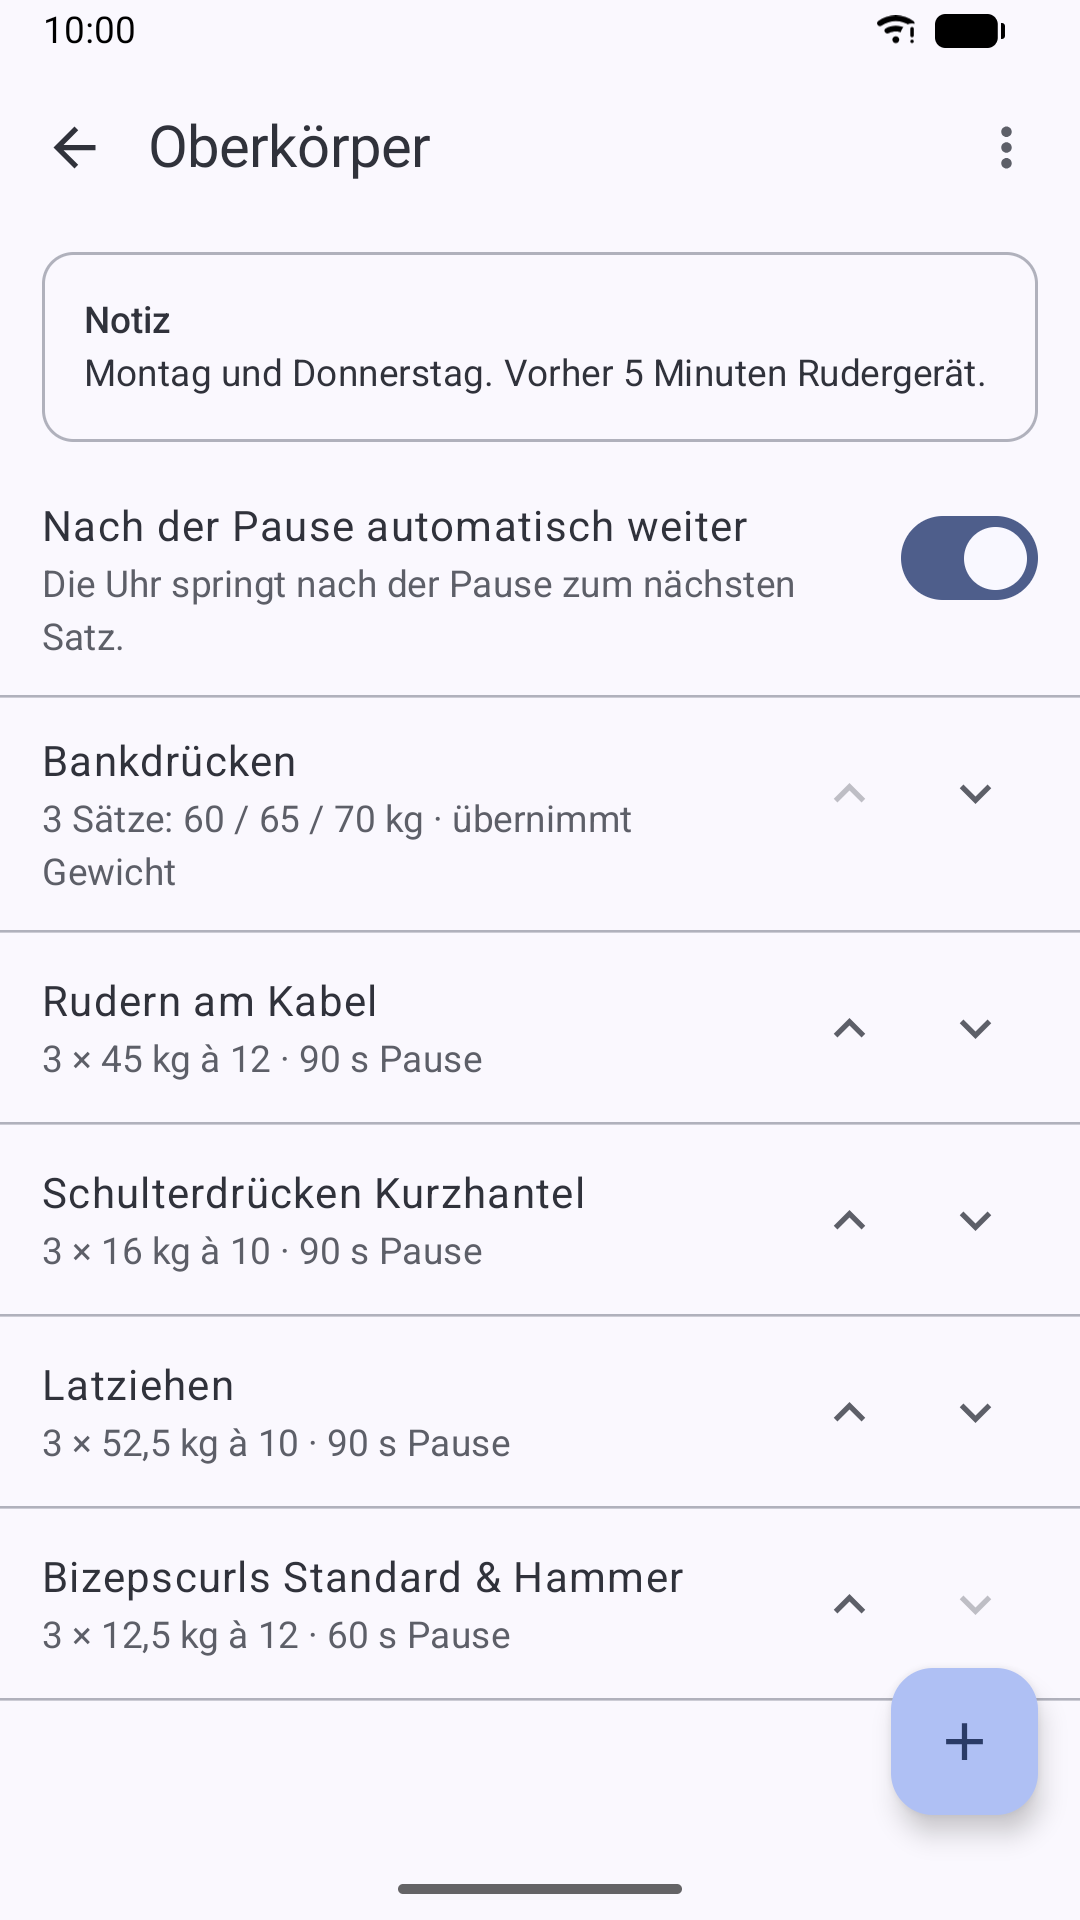
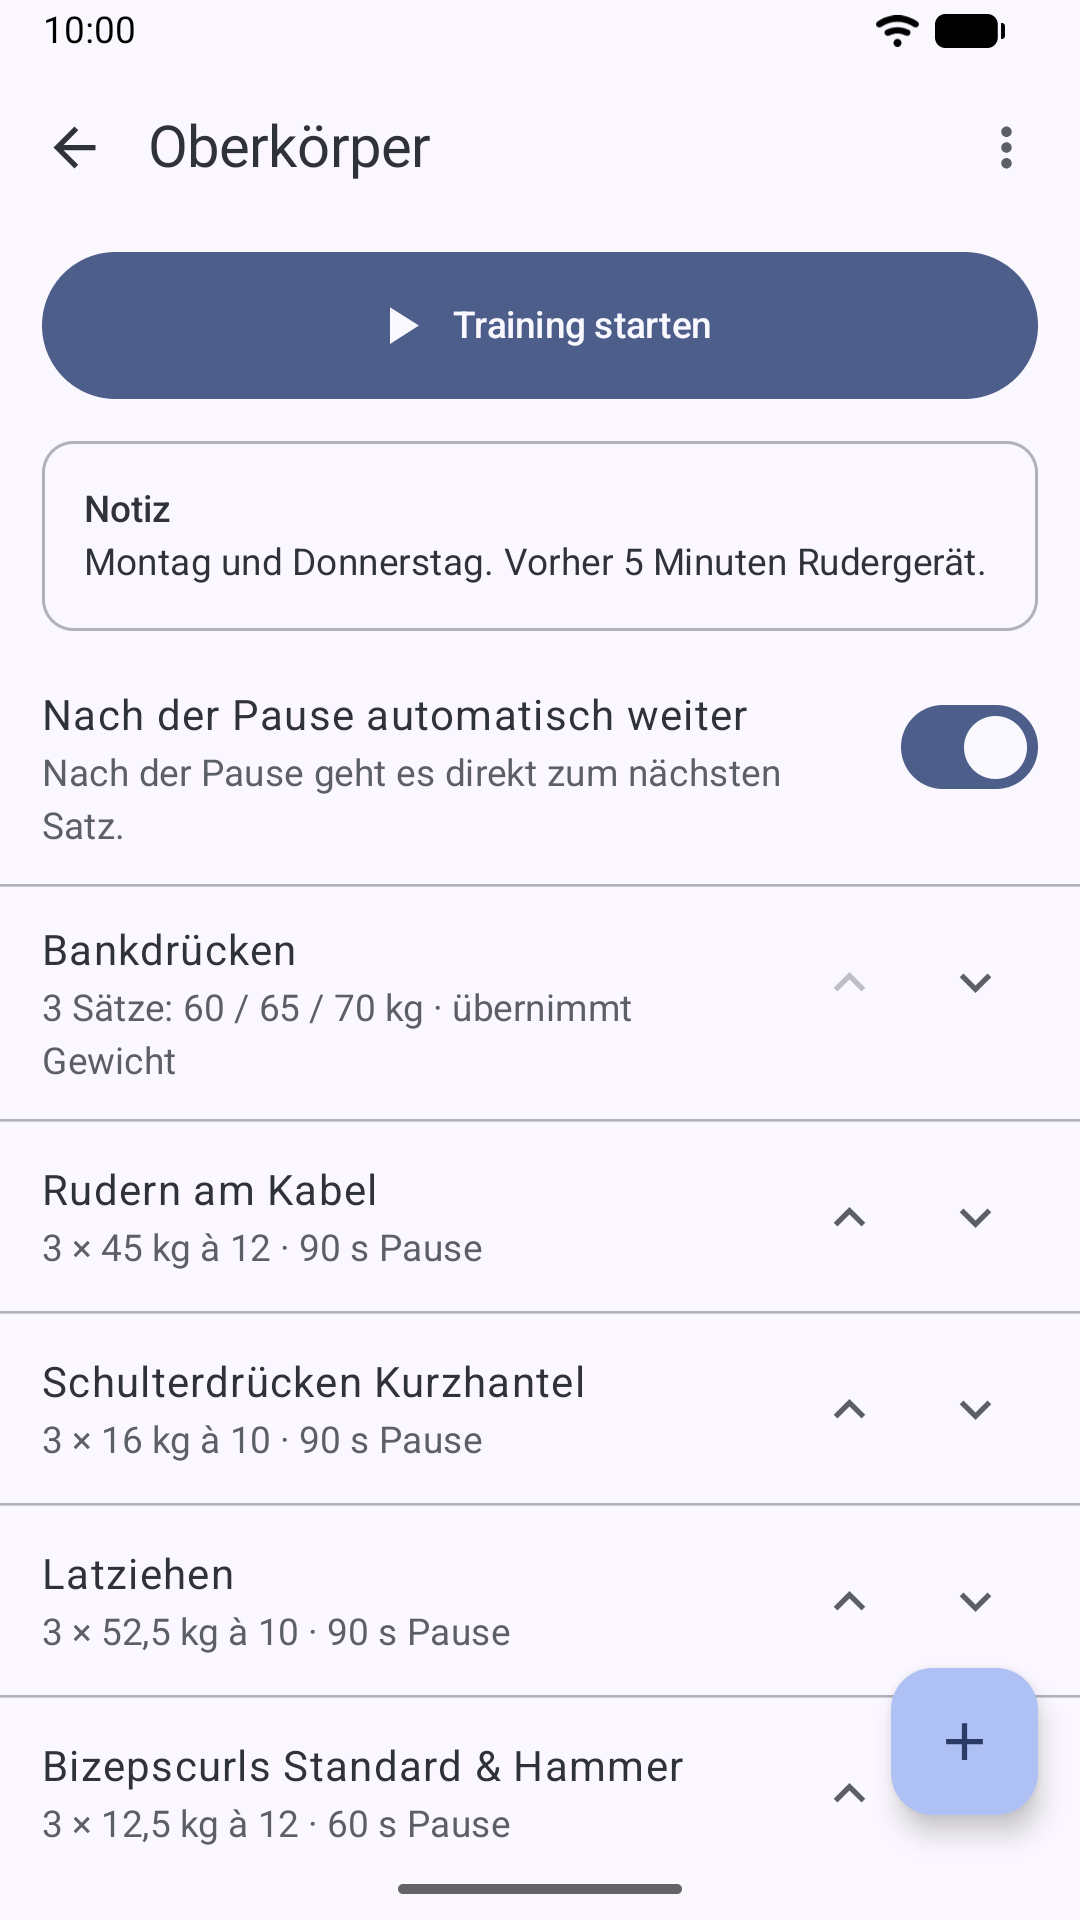
Add files via upload

diff --git a/index.html b/index.html
@@ -3,8 +3,8 @@
 <head>
 <meta charset="utf-8">
 <meta name="viewport" content="width=device-width, initial-scale=1">
-<title>Fitness Maik · Krafttraining am Handgelenk</title>
-<meta name="description" content="Fitness Maik ist dein Trainingsbuch für das Krafttraining an der Wear-OS-Uhr: Satz abhaken, Pause läuft, das Handy bleibt im Spind.">
+<title>Fitness Maik · Krafttraining mit Uhr oder Handy</title>
+<meta name="description" content="Fitness Maik ist dein Trainingsbuch für das Krafttraining: an der Wear-OS-Uhr oder direkt am Handy. Satz abhaken, Pause läuft, Verlauf und Pläne immer dabei.">
 <link rel="icon" href="img/icon.png">
 <style>
   :root {
@@ -119,8 +119,8 @@
   <div class="wrap">
     <div>
       <div class="brand"><img src="img/icon.png" alt=""><span>Fitness Maik</span></div>
-      <h1>Krafttraining am Handgelenk.</h1>
-      <p class="lead">Satz abhaken, Pause läuft, das Handy bleibt im Spind. Dein Trainingsbuch für die Wear-OS-Uhr, mit Plänen und Verlauf auf dem Handy.</p>
+      <h1>Krafttraining am Handgelenk. Oder am Handy.</h1>
+      <p class="lead">Satz abhaken, Pause läuft. Mit Wear-OS-Uhr bleibt das Handy im Spind, ohne Uhr trainierst du direkt am Handy. Pläne und Verlauf hast du immer dabei.</p>
       <div class="buttons">
         <a class="btn btn-light" href="#funktionen">Funktionen ansehen</a>
         <a class="btn btn-ghost" href="https://www.youtube.com/watch?v=dd3W-QZV9yQ" target="_blank" rel="noopener">▶ Video ansehen</a>
@@ -128,7 +128,7 @@
       <span class="badge">Für Android und Wear OS · bald bei Google Play</span>
     </div>
     <div class="devices" aria-hidden="true">
-      <div class="phone"><img src="img/handy-1-plan.png" alt=""></div>
+      <div class="phone"><img src="img/handy-2-satz.png" alt=""></div>
       <div class="watch"><img src="img/uhr-2-pause.png" alt=""></div>
     </div>
   </div>
@@ -139,11 +139,11 @@
 <section>
   <div class="wrap">
     <h2>So läuft das Training</h2>
-    <p class="intro">Im Studio brauchst du nur deine Uhr. Große Schaltflächen und Vibration statt Ton, damit es auch mit verschwitzten Fingern klappt.</p>
+    <p class="intro">Im Studio brauchst du nur deine Uhr, oder dein Handy, wenn du keine Uhr hast. Große Schaltflächen und Vibration statt Ton, damit es auch mit verschwitzten Fingern klappt.</p>
     <div class="steps">
-      <div class="step"><h3>Plan wählen</h3><p>Deine Pläne kommen vom Handy auf die Uhr, danach geht es ohne Verbindung.</p></div>
+      <div class="step"><h3>Plan wählen</h3><p>Am Handy direkt starten, oder auf der Uhr: Die Pläne kommen vom Handy, danach geht es ohne Verbindung.</p></div>
       <div class="step"><h3>Satz abhaken</h3><p>Gewicht und Wiederholungen stehen schon da. Ein Tipp genügt, ändern geht auch.</p></div>
-      <div class="step"><h3>Pause läuft</h3><p>Der Timer startet von selbst, die Uhr vibriert kurz vor und am Ende der Pause.</p></div>
+      <div class="step"><h3>Pause läuft</h3><p>Der Timer startet von selbst und vibriert kurz vor und am Ende der Pause.</p></div>
       <div class="step"><h3>Weiter im Plan</h3><p>Nach dem letzten Satz kommt die nächste Übung, am Ende ist das Training gespeichert.</p></div>
     </div>
   </div>
@@ -152,7 +152,7 @@
 <section class="alt" id="funktionen">
   <div class="wrap">
     <h2>Funktionen</h2>
-    <p class="intro">Die Uhr ist für das Training da, das Handy für Pläne und Auswertung. Beide gleichen sich automatisch ab, sobald sie verbunden sind.</p>
+    <p class="intro">Trainieren kannst du an der Uhr oder am Handy, Pläne und Auswertung pflegst du am Handy. Mit Uhr gleichen sich beide automatisch ab, sobald sie verbunden sind.</p>
     <div class="features">
       <div>
         <h3>Auf der Uhr</h3>
@@ -169,7 +169,9 @@
       <div>
         <h3>Auf dem Handy</h3>
         <ul class="check">
+          <li>Training auch ganz ohne Uhr: Sätze am Handy abhaken, mit Pausentimer, Vibration und Anzeige in der Benachrichtigung</li>
           <li>Übungen und Trainingspläne anlegen und die Reihenfolge festlegen</li>
+          <li>Je Übung Standardwerte für Sätze, Gewicht, Wiederholungen und Pause, mit Überblick, in welchen Plänen sie vorkommt</li>
           <li>Sätze, Gewicht, Wiederholungen und Pause, auf Wunsch für jeden Satz einzeln (z. B. Pyramidentraining)</li>
           <li>Auf Wunsch übernimmt der Plan nach dem Training die tatsächlich bewegten Gewichte</li>
           <li>Notizen zu Plänen und Übungen, Fotos und Videos zur richtigen Ausführung</li>
@@ -193,11 +195,17 @@
 
     <h3 class="gallery-title">Bildschirmfotos Handy</h3>
     <div class="gallery">
-      <figure><a href="img/handy-1-plan.png"><div class="shot-phone"><img src="img/handy-1-plan.png" alt="Handy: Trainingsplan mit Übungen" loading="lazy"></div></a>
+      <figure><a href="img/handy-2-satz.png"><div class="shot-phone"><img src="img/handy-2-satz.png" alt="Handy: Satz 1 von 3 Bankdrücken, 60 kg und 12 Wiederholungen, Knopf Satz erledigt" loading="lazy"></div></a>
+        <figcaption>Training am Handy, ganz ohne Uhr</figcaption></figure>
+      <figure><a href="img/handy-3-pause.png"><div class="shot-phone"><img src="img/handy-3-pause.png" alt="Handy: laufender Pausentimer mit dem nächsten Satz" loading="lazy"></div></a>
+        <figcaption>Pausentimer auch am Handy</figcaption></figure>
+      <figure><a href="img/handy-1-plan.png"><div class="shot-phone"><img src="img/handy-1-plan.png" alt="Handy: Trainingsplan mit Übungen und Knopf Training starten" loading="lazy"></div></a>
         <figcaption>Trainingspläne bequem pflegen</figcaption></figure>
-      <figure><a href="img/handy-2-training.png"><div class="shot-phone"><img src="img/handy-2-training.png" alt="Handy: Training mit allen Sätzen, Gewicht, Wiederholungen und Uhrzeit" loading="lazy"></div></a>
+      <figure><a href="img/handy-4-uebungen.png"><div class="shot-phone"><img src="img/handy-4-uebungen.png" alt="Handy: Übungen mit Standardwerten und den Plänen, in denen sie vorkommen" loading="lazy"></div></a>
+        <figcaption>Übungen mit Vorgaben und Plänen</figcaption></figure>
+      <figure><a href="img/handy-6-training.png"><div class="shot-phone"><img src="img/handy-6-training.png" alt="Handy: Training mit allen Sätzen, Gewicht, Wiederholungen und Uhrzeit" loading="lazy"></div></a>
         <figcaption>Jedes Training mit allen Sätzen</figcaption></figure>
-      <figure><a href="img/handy-3-verlauf.png"><div class="shot-phone"><img src="img/handy-3-verlauf.png" alt="Handy: Verlauf der Trainings" loading="lazy"></div></a>
+      <figure><a href="img/handy-5-verlauf.png"><div class="shot-phone"><img src="img/handy-5-verlauf.png" alt="Handy: Verlauf der Trainings" loading="lazy"></div></a>
         <figcaption>Verlauf aller Trainings</figcaption></figure>
     </div>
   </div>
@@ -227,9 +235,9 @@
       <div class="card">
         <h3>Voraussetzungen</h3>
         <ul>
-          <li>Smartwatch mit Wear OS 3 oder neuer, z. B. Samsung Galaxy Watch4 und neuer</li>
-          <li>Android-Handy ab Android 10 für die Pflege der Pläne</li>
-          <li>Die Uhr braucht einmal die Verbindung zum Handy, danach trainierst du ohne</li>
+          <li>Android-Handy ab Android 10</li>
+          <li>Optional: Smartwatch mit Wear OS 3 oder neuer, z. B. Samsung Galaxy Watch4 und neuer</li>
+          <li>Mit Uhr: Sie braucht einmal die Verbindung zum Handy, danach trainierst du ohne</li>
           <li>Gewichte in Kilogramm, App-Sprache Deutsch</li>
         </ul>
       </div>

diff --git a/datenschutz.html b/datenschutz.html
@@ -63,8 +63,10 @@
   Videoplayer) nur zum Ansehen bereitstellen.
 </p>
 <p>
-  Die App fordert keine besonderen Berechtigungen an, etwa für Kamera, Mikrofon,
-  Standort oder Kontakte.
+  Für den Pausentimer nutzt die App auf Uhr und Smartphone die Vibration und eine
+  Benachrichtigung, die die restliche Pausenzeit anzeigt. Dabei werden keine Daten
+  übertragen. Darüber hinaus fordert die App keine besonderen Berechtigungen an, etwa
+  für Kamera, Mikrofon, Standort oder Kontakte.
 </p>
 
 <h2>4. Kauf über Google Play</h2>
